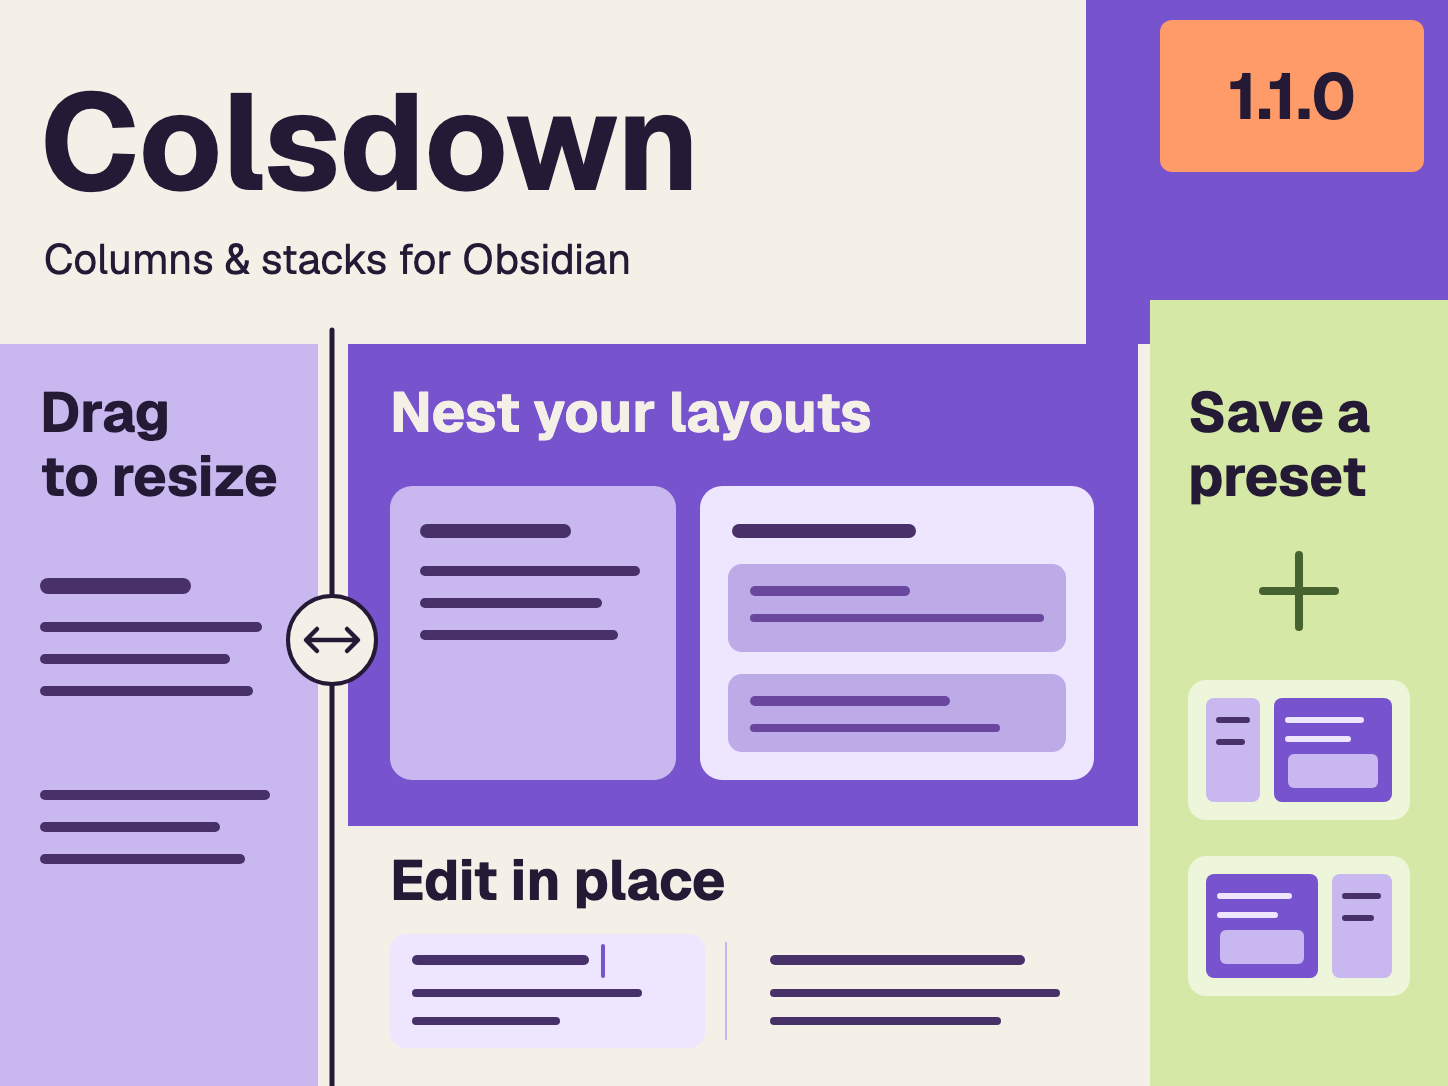
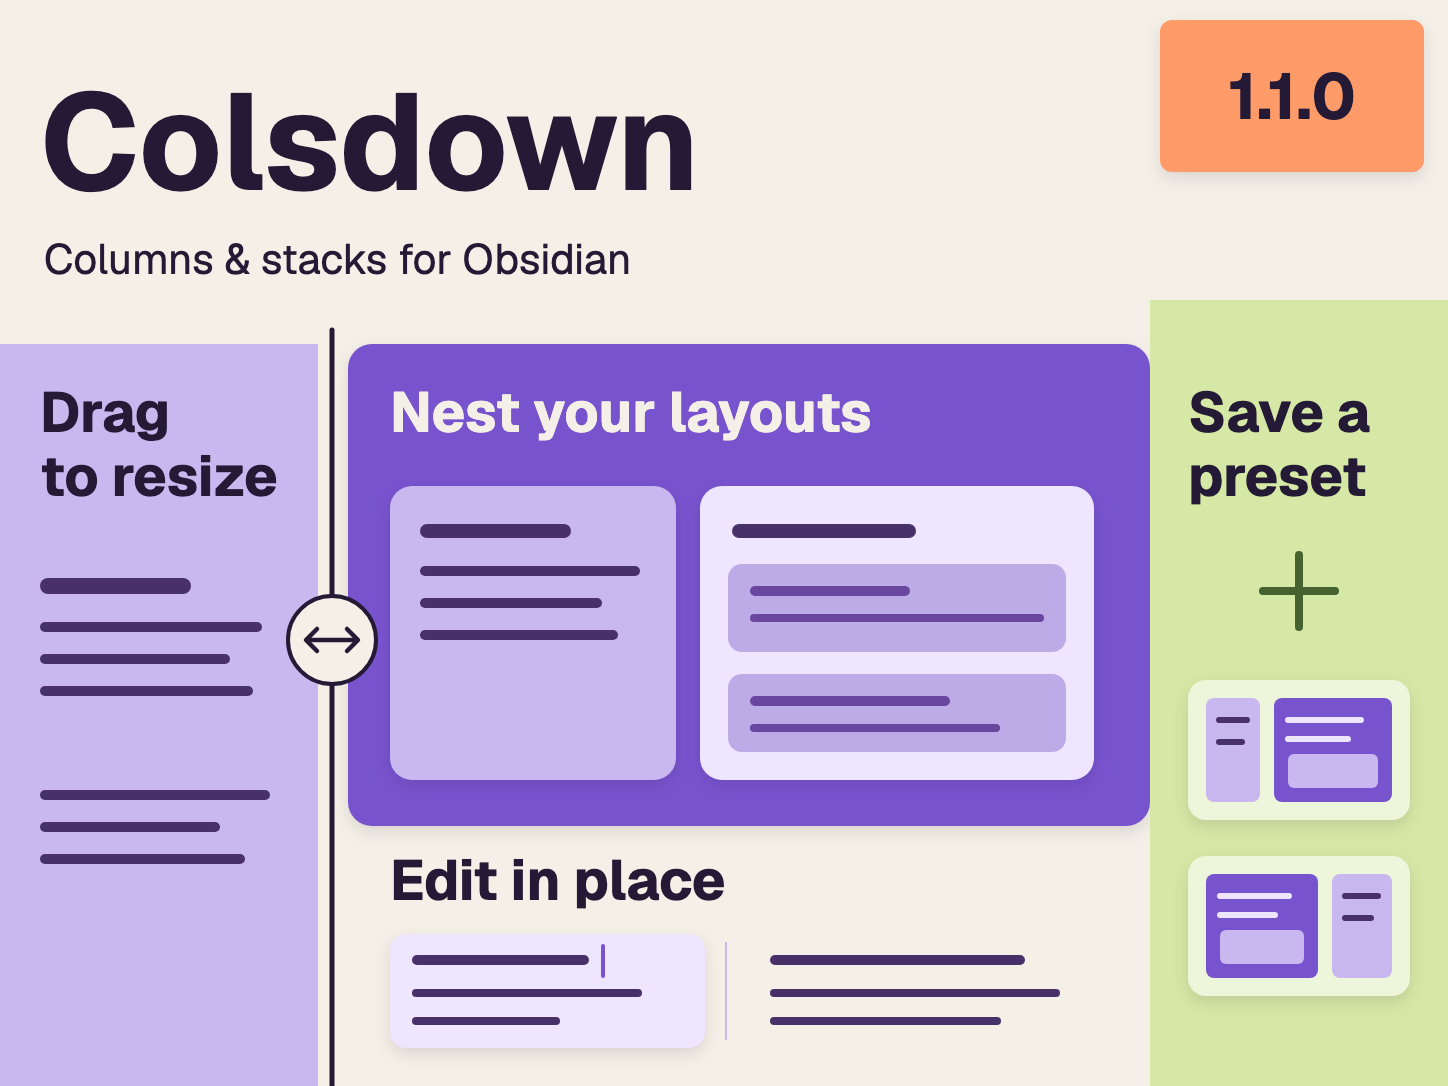
docs: refine poster card spacing and depth

Changed region(s): [[0.7459, 0.0, 1.0, 0.7597]]

diff --git a/.impeccable/surfaces/docs-assets-colsdown-v1-release-png.md b/.impeccable/surfaces/docs-assets-colsdown-v1-release-png.md
@@ -19,8 +19,8 @@ OWN-WORLD: Keep the cream, aubergine, purple, lavender, lime and orange identity
 
 STORY: Readers recognize Colsdown, understand it adds editable columns and stacks to Obsidian, and see four benefits: resizing, nesting, presets and direct editing.
 
-FIRST VIEWPORT: A 136px title anchors the cream upper region; orange 1.1.0 anchors the upper right. The lavender rail has a draggable divider. The central purple field contains two columns, with stacks nested inside one. The lime preset column contains a plus and two miniature layouts. The lower editing region shows a caret beside rendered content. All four labels use 56px bold type, with 64px baseline spacing for multiline labels.
+FIRST VIEWPORT: A 136px title anchors the cream upper region; an orange 1.1.0 card on cream anchors the upper right, with no purple backdrop. The lavender rail has a draggable divider. The rounded central purple card contains two columns, with stacks nested inside one, and meets the lime preset rail without a vertical gutter. The lime preset column contains a plus and two miniature layouts. The lower editing region shows a caret beside rendered content. All four labels use 56px bold type, with 64px baseline spacing for multiline labels.
 
-FORM: Modular broadside with native, editable SVG geometry and embedded fonts. Keep illustrations readable and labels inset within their regions. Remove the former “Use it again” and arrow-key pitch; no bent navigation arrow. This is a static poster; web navigation, input states, motion and separate responsive layouts do not apply. Scale the full image proportionally at narrow widths.
+FORM: Modular broadside with native, editable SVG geometry and embedded fonts. Keep illustrations readable and labels inset within their regions. Use a shared soft shadow on the version, nesting parent/child cards, preset thumbnails and active editing card. Remove the former “Use it again” and arrow-key pitch; no bent navigation arrow. This is a static poster; web navigation, input states, motion and separate responsive layouts do not apply. Scale the full image proportionally at narrow widths.
 
 FINISH: Verify full and narrow captures, confirm mechanism and type fit, obtain an independent finish review, and retain native-source provenance in the SVG, sidecar and exported PNG.

diff --git a/DESIGN.md b/DESIGN.md
@@ -51,17 +51,17 @@ The editable `docs/assets/colsdown-v1-release.svg` embeds Geist regular and bold
 
 ## Layout
 
-The refined `docs/assets/colsdown-v1-release.png` is a static 4:3 image (1448 × 1086). Its cream title region, orange version notch, lavender resize rail, purple nested field, lime preset library and lower editing region form one composition. The surface brief records its exact arrangement.
+The refined `docs/assets/colsdown-v1-release.png` is a static 4:3 image (1448 × 1086). Its cream title region, orange version card on cream, lavender resize rail, purple nested field, lime preset library and lower editing region form one composition. The surface brief records its exact arrangement.
 
 Scale the whole image proportionally in README and listing contexts; there is no separate mobile composition. Keep the four visual demonstrations: resizing, nesting, presets and editing. Reuse and arrow navigation are omitted as separate pitches at the user’s request.
 
 ## Elevation & Depth
 
-Colored region containment carries depth. Use solid fills; this static asset has no shadows or motion.
+Colored region containment carries depth. Version, nesting parent/child cards, preset thumbnails and the active editing column share a soft aubergine shadow: 0px horizontal offset, 6px vertical offset, 8px Gaussian blur, 13% opacity. Solid fills stay intact; this static asset has no motion.
 
 ## Shapes
 
-Upright parent and child blocks demonstrate nesting. A circular double-arrow handle sits on the resize divider. A plus above two miniature layouts represents presets. An insertion caret in the active column sits beside a rendered sibling. Each diagram belongs to its corresponding label.
+A rounded purple parent card and upright child blocks demonstrate nesting. The parent meets the lime preset rail without a vertical gutter; cream separates it from the version card, which has no purple backdrop. A circular double-arrow handle sits on the resize divider. A plus above two miniature layouts represents presets. An insertion caret in the active column sits beside a rendered sibling. Each diagram belongs to its corresponding label.
 
 ## Components
 
